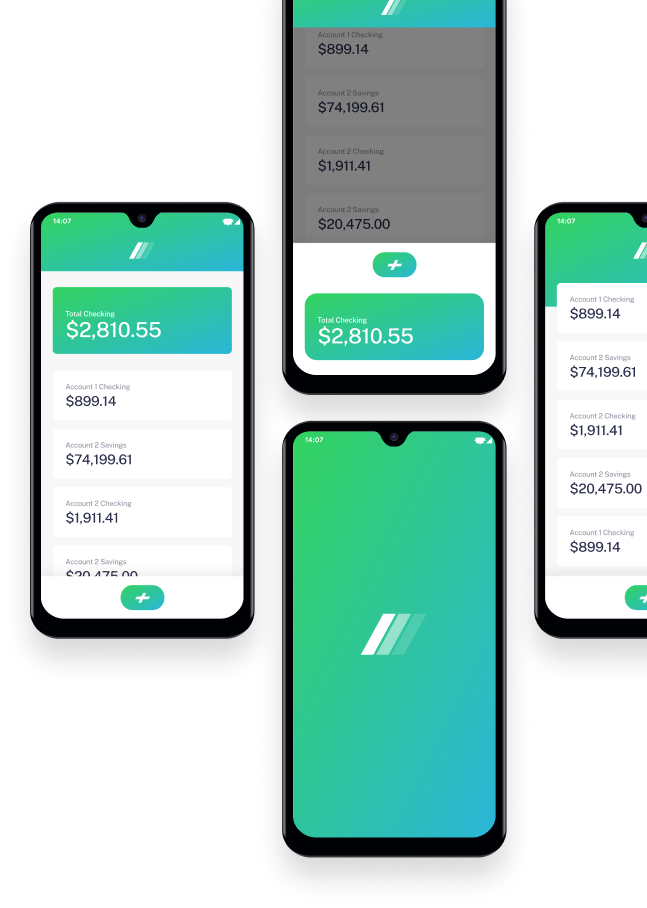
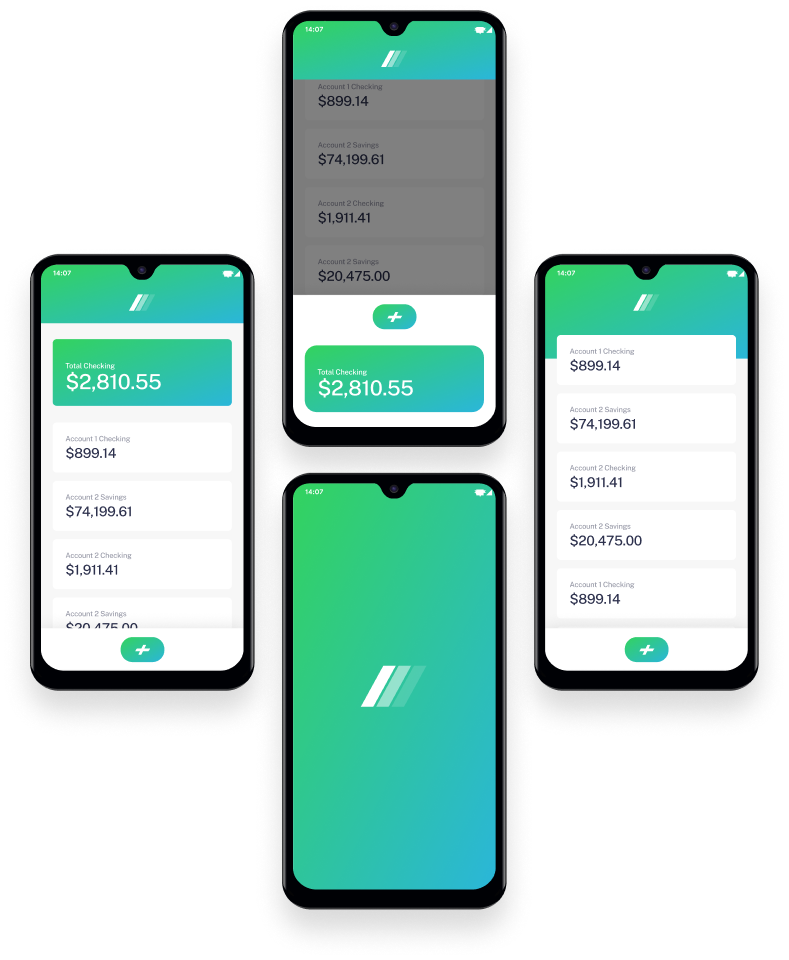
add images

diff --git a/css/style.css b/css/style.css
@@ -17,6 +17,7 @@ body {
   background-color: #fff;
   color: #222;
   margin-top: 80px;
+  overflow-x: hidden;
 }
 
 img {
@@ -129,8 +130,9 @@ img {
   padding: 170px 0;
   background-image: url(../img/hero-bg.png);
   background-repeat: no-repeat;
-  background-position: 100% 0;
+  background-position: calc(50% + 600px) center;
   position: relative;
+  background-size: 1371px 956px;
   background-color: #fafafa;
 }
 .hero-left {
@@ -154,8 +156,10 @@ img {
 }
 .hero-right-img {
   position: absolute;
-  right: 0;
-  top: 0;
+  left: calc(50% + 100px);
+  top: -100px;
+  width: 732px;
+  height: 901px;
 }
 .rectangle {
   background-color: #F4F5F7;

diff --git a/index.html b/index.html
@@ -33,7 +33,7 @@
           <a href="#" class="hero-link global-link">Request Invite</a>
         </div>
       </div>
-      <img src="img/hero-phones.png" alt="Phones" class="hero-right-img" width="600" height="801">
+      <img src="img/hero-phones.png" alt="Phones" class="hero-right-img" width="732" height="901">
     </section>
     <section class="rectangle">
       <div class="container">
